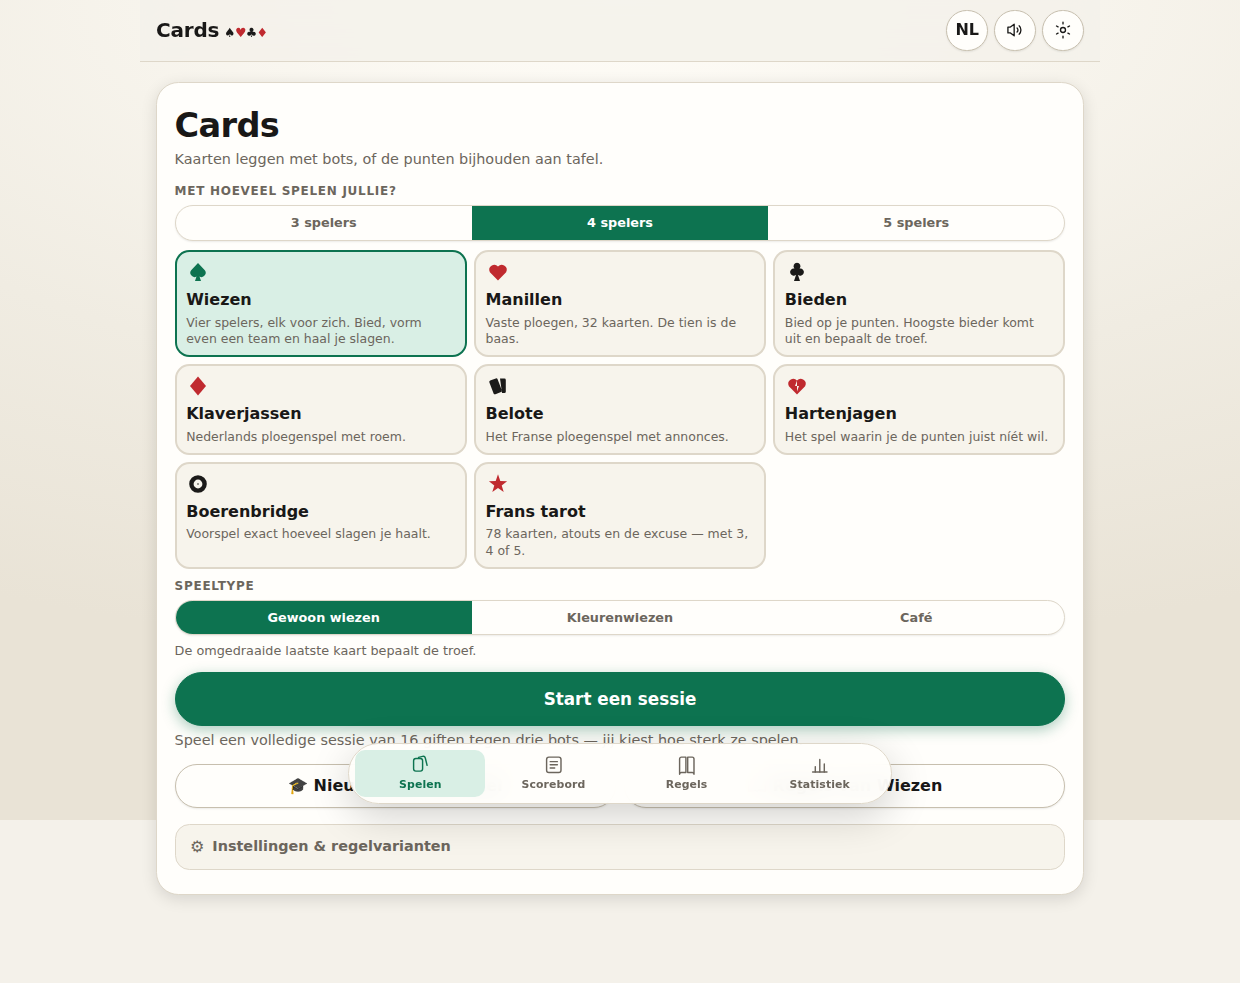
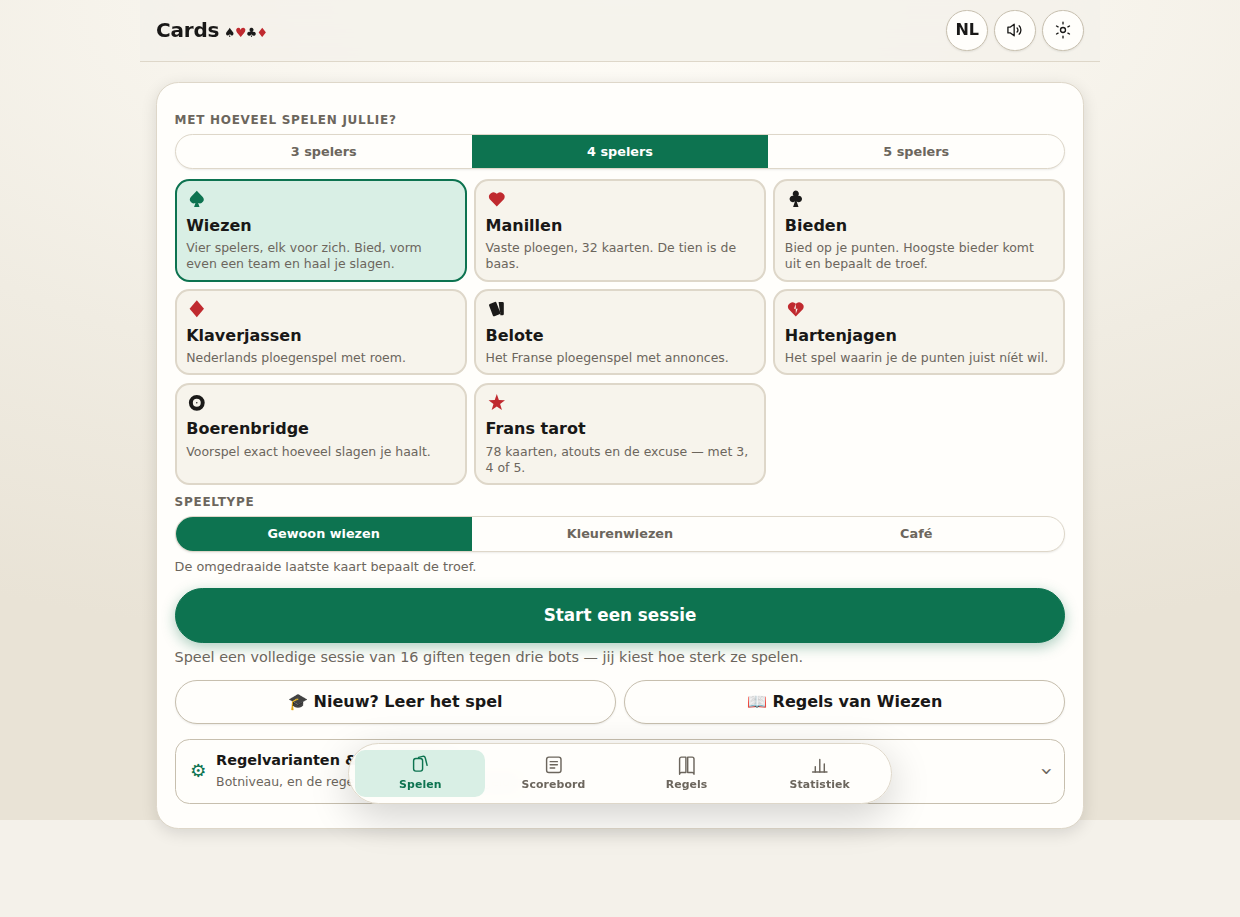
feat(cards): keuzescherm bij het opstarten, compactere spelkiezer
Vier dingen uit één schermafbeelding.

**Ondertitel weg.** "Kaarten leggen met bots, of de punten bijhouden aan tafel"
stond onder een titel die de kop al draagt. Allebei weg; het keuzescherm zegt
het nu op de plek waar het telt.

**Keuzescherm bij het opstarten.** Je landt op twee kaarten: spelen tegen bots,
of scorebord aan tafel. Dat tweede is een ander gebruik van de app en zat tot nu
weggestopt achter een knop onderaan een lijst.

**Naam naast het teken op de speltegels** in plaats van eronder. Halveert de
tegelhoogte en scheelt over vier rijen meer dan honderd pixels.

**Regelvarianten & instellingen** was één grijze regel onderaan die je over het
hoofd zag, en waaruit niet bleek dat de varianten van dít spel erin zitten. Nu
een echte rij met een accentkleurig tandwiel, een chevron en een regel eronder
die zegt wat je er vindt.

Samen met de scorebordinleiding die op gsm verborgen wordt, past nu alles in
één beeld op 390x844:

  landing         844px  past
  start (nieuw)   844px  past   (startknop in beeld)
  start (terug)   844px  past   (startknop in beeld)
  scorebord       844px  past   (was 884)
  statistiek      844px  past
  wizard          844px  past
  regels         1169px  325 over — een lijst hoofdstukken, die hoort te schuiven

Cache naar cards-v11.

Claude-Session: https://claude.ai/code/session_01MgRtQzS8fjuh9rrNQPLfzZ

Changed region(s): [[0.1226, 0.0, 0.8887, 0.916]]

diff --git a/cards/src/main.ts b/cards/src/main.ts
@@ -133,7 +133,10 @@ if (!app) throw new Error('#app ontbreekt');
 
 const RULESET_KEY = 'cards.ruleset';
 let ruleset = getRuleset('vlaams-standaard') as Ruleset;
-let view: 'home' | 'game' | 'stats' | 'scorebord' | 'wizard' | 'guide' = 'home';
+// 'splash' is het scherm waarop je landt: kaarten leggen tegen bots, of enkel
+// de punten bijhouden van een spel aan tafel. Dat zijn twee heel verschillende
+// dingen, en tot nu moest je maar raden dat het tweede ook bestond.
+let view: 'splash' | 'home' | 'game' | 'stats' | 'scorebord' | 'wizard' | 'guide' = 'splash';
 
 // Coach & starterswizard.
 let coachOn = loadCoachEnabled();
@@ -584,10 +587,10 @@ function resumeGame(): void {
  *  duurste plek van een telefoonscherm en het zijn instellingen, geen inhoud.
  *  Ze zitten nu achter één knop. */
 function topbar(): HTMLElement {
-  const header = el('header', 'topbar');
+  const header = el('header', view === 'splash' ? 'topbar bare' : 'topbar');
   const left = el('div', 'topbar-left');
   // Zonder deze knop zit je in een spel of scherm vast: er was geen weg terug.
-  if (view !== 'home') {
+  if (view !== 'home' && view !== 'splash') {
     const terug = button('\u2039', 'btn back', () => goHome());
     terug.setAttribute('aria-label', t('controls.menu'));
     left.append(terug);
@@ -787,7 +790,7 @@ function tabIcon(naam: string): HTMLElement {
 /** De tabbalk hoort niet aan een speeltafel of in de starterswizard: dat zijn
  *  schermen waar je iets afmaakt, niet rondkijkt. */
 function toonTabs(): boolean {
-  if (view === 'wizard') return false;
+  if (view === 'wizard' || view === 'splash') return false;
   return view !== 'game' || !liveSession();
 }
 
@@ -1078,6 +1081,43 @@ function installBanner(): HTMLElement {
   return box;
 }
 
+/** Landingsscherm: twee keuzes, groot en zonder omhaal. */
+function splashScreen(): HTMLElement {
+  const main = el('main', 'hero splash');
+  const merk = el('div', 'splash-brand');
+  merk.innerHTML =
+    'Cards<span class="suits" aria-hidden="true"><span class="suit-black">\u2660</span>' +
+    '<span class="suit-red">\u2665</span><span class="suit-black">\u2663</span>' +
+    '<span class="suit-red">\u2666</span></span>';
+  main.append(merk);
+  main.append(el('p', 'tagline', t('splash.intro')));
+
+  const keuzes = el('div', 'splash-choices');
+  const keuze = (naam: string, titel: string, uitleg: string, bij: () => void): HTMLElement => {
+    const knop = el('button', 'splash-card');
+    knop.type = 'button';
+    knop.append(icoon(naam));
+    const tekst = el('span', 'splash-text');
+    tekst.append(el('span', 'splash-title', titel), el('span', 'splash-desc', uitleg));
+    knop.append(tekst);
+    knop.addEventListener('click', bij);
+    return knop;
+  };
+
+  keuzes.append(
+    keuze('play', t('splash.bots'), t('splash.botsDesc'), () => {
+      view = 'home';
+      render();
+    }),
+    keuze('scorebord', t('splash.board'), t('splash.boardDesc'), () => {
+      view = 'scorebord';
+      render();
+    }),
+  );
+  main.append(keuzes);
+  return main;
+}
+
 function startScreen(): HTMLElement {
   const main = el('main', 'hero');
   // Zodra de browser laat weten dat installeren kan, bieden we het aan in plaats
@@ -1086,11 +1126,6 @@ function startScreen(): HTMLElement {
   // Stond hier hardgecodeerd op "3 spellen" terwijl het er intussen acht zijn.
   // Wie hier voor het eerst komt heeft iets aan de belofte; wie al gespeeld
   // heeft niet meer, en die duwde het alleen maar de startknop uit beeld.
-  const nieuw = loadStats().sessions.length === 0;
-  if (nieuw) {
-    main.append(el('h1', undefined, t('app.title')));
-    main.append(el('p', 'tagline', t('app.tagline')));
-  }
 
   // Eerst met hoeveel je bent, dan pas welk spel: met drie of vijf kan de app
   // enkel tarot delen, en dat hoort de lijst te tonen in plaats van tegels die
@@ -1318,7 +1353,14 @@ function startScreen(): HTMLElement {
   // blijft bereikbaar voor wie het wil.
   const settings = el('details', 'settings');
   const summary = document.createElement('summary');
-  summary.textContent = t('settings.title');
+  // Was één grijze regel onderaan die je makkelijk over het hoofd zag, en waar
+  // niet uit bleek dat de regelvarianten van dít spel erin zitten.
+  const kop = el('span', 'settings-label');
+  kop.append(
+    el('span', 'settings-name', t('settings.title')),
+    el('span', 'settings-desc', t('settings.hint')),
+  );
+  summary.append(kop);
   settings.append(summary);
   const body = el('div', 'settings-body');
 
@@ -2045,7 +2087,7 @@ function endScreen(): HTMLElement {
 function render(): void {
   if (!app) return;
   app.replaceChildren();
-  const wrap = el('div', 'wrap game');
+  const wrap = el('div', view === 'splash' ? 'wrap game no-tabs' : 'wrap game');
   wrap.append(topbar());
   if (prefsPaneel === 'taal') wrap.append(langSheet());
   else if (prefsPaneel === 'thema') wrap.append(prefsSheet());
@@ -2053,7 +2095,9 @@ function render(): void {
   const gift = currentGift();
   const mGift = mSession?.gift ?? null;
   const bGift = bSession?.gift ?? null;
-  if (view === 'guide') {
+  if (view === 'splash') {
+    wrap.append(splashScreen());
+  } else if (view === 'guide') {
     wrap.append(guideScreen());
   } else if (view === 'wizard') {
     wrap.append(wizardScreen());
@@ -2910,7 +2954,7 @@ function sbRoundLabel(meta: scorebord.RoundMeta): string {
 function scorebordSetup(): HTMLElement {
   const main = el('main', 'hero');
   main.append(el('h1', undefined, t('scorebord.title')));
-  main.append(el('p', undefined, t('scorebord.intro')));
+  main.append(el('p', 'hint sb-intro', t('scorebord.intro')));
 
   if (sbNames.length === 0) sbNames = ['', '', '', ''];
 

diff --git a/cards/src/styles.css b/cards/src/styles.css
@@ -98,6 +98,11 @@ body {
   max-width: 60rem;
 }
 
+/* Schermen zonder tabbalk hoeven er onderaan geen plaats voor vrij te houden. */
+.wrap.no-tabs {
+  padding-bottom: calc(1rem + env(safe-area-inset-bottom, 0px));
+}
+
 /* ---------- topbar ---------- */
 
 header.topbar {
@@ -357,6 +362,12 @@ main.hero h1 {
 }
 
 @media (max-width: 39.99rem) {
+  /* De inleidende zin van het scorebord duwde het opzetscherm net buiten beeld;
+     de titel en de tab zeggen al waar je bent. */
+  .sb-intro {
+    display: none;
+  }
+
   main.hero > h1 {
     font-size: 1.3rem;
     margin: 0.1rem 0 0.3rem;
@@ -422,12 +433,12 @@ main.hero h1 {
 
 .game-tile {
   display: flex;
-  flex-direction: column;
-  align-items: flex-start;
-  gap: 0.15rem;
+  flex-direction: row;
+  align-items: center;
+  gap: 0.55rem;
   width: 100%;
-  min-height: 3.9rem;
-  padding: 0.5rem 0.6rem;
+  min-height: 2.9rem;
+  padding: 0.45rem 0.6rem;
   border: 2px solid var(--border);
   border-radius: var(--radius);
   background: var(--surface-2);
@@ -448,6 +459,11 @@ main.hero h1 {
     gap: 0.25rem;
     min-height: 5rem;
   }
+}
+
+/* De naam mag niet over het teken heen breken op een smal scherm. */
+.game-tile .tile-text {
+  min-width: 0;
 }
 
 .game-tile:active {
@@ -476,8 +492,9 @@ main.hero h1 {
    tegel neemt het zwarte teken de accentkleur over zodat de keuze meteen leest. */
 .game-mark {
   display: block;
-  width: 1.5rem;
-  height: 1.5rem;
+  flex: 0 0 auto;
+  width: 1.35rem;
+  height: 1.35rem;
 }
 
 .game-mark svg {
@@ -517,6 +534,92 @@ main.hero h1 {
   .game-tile .tile-desc {
     display: none;
   }
+}
+
+/* ---------- landingsscherm ---------- */
+
+main.hero.splash {
+  display: flex;
+  flex-direction: column;
+  justify-content: center;
+  gap: 0.4rem;
+  /* De volle hoogte onder de kop, zodat de twee keuzes in het midden staan en
+     niet bovenaan blijven hangen met een leeg scherm eronder. */
+  min-height: calc(100dvh - 9rem);
+}
+
+.topbar.bare .brand {
+  display: none;
+}
+
+.splash-brand {
+  display: flex;
+  align-items: baseline;
+  gap: 0.4rem;
+  font-family: var(--font-display);
+  font-size: 2rem;
+  font-weight: 800;
+  letter-spacing: -0.02em;
+}
+
+.splash-brand .suits {
+  font-size: 1.1rem;
+  letter-spacing: -0.05em;
+}
+
+.splash-choices {
+  display: flex;
+  flex-direction: column;
+  gap: 0.7rem;
+  margin-top: 0.8rem;
+}
+
+.splash-card {
+  display: flex;
+  align-items: center;
+  gap: 0.8rem;
+  width: 100%;
+  padding: 1rem 1rem;
+  border: 2px solid var(--border);
+  border-radius: var(--radius-lg);
+  background: var(--surface);
+  color: var(--text);
+  font: inherit;
+  text-align: left;
+  cursor: pointer;
+  box-shadow: var(--shadow);
+  transition:
+    border-color 0.15s ease,
+    transform 0.12s ease;
+}
+
+.splash-card:active {
+  transform: translateY(1px);
+}
+
+.splash-card .ui-icon {
+  flex: 0 0 auto;
+  width: 1.9rem;
+  height: 1.9rem;
+  color: var(--accent);
+}
+
+.splash-text {
+  display: flex;
+  flex-direction: column;
+  gap: 0.15rem;
+  min-width: 0;
+}
+
+.splash-title {
+  font-weight: 700;
+  font-size: 1.05rem;
+}
+
+.splash-desc {
+  font-size: 0.82rem;
+  color: var(--text-muted);
+  line-height: 1.35;
 }
 
 /* ---------- tabbalk ---------- */
@@ -681,10 +784,10 @@ main.hero h1 {
 
 /* Inklapbare instellingen zodat het startscherm rustig blijft */
 details.settings {
-  margin-top: 1rem;
-  border: 1px solid var(--border);
+  margin-top: 0.9rem;
+  border: 1px solid var(--border-strong);
   border-radius: var(--radius);
-  background: var(--surface-2);
+  background: var(--surface);
   overflow: hidden;
 }
 
@@ -692,13 +795,44 @@ details.settings > summary {
   min-height: var(--tap);
   display: flex;
   align-items: center;
-  gap: 0.5rem;
-  padding: 0.6rem 0.9rem;
+  gap: 0.6rem;
+  padding: 0.65rem 0.9rem;
   font-size: 0.9rem;
-  font-weight: 600;
-  color: var(--text-muted);
+  color: var(--text);
   cursor: pointer;
   list-style: none;
+}
+
+/* Naam plus één regel wat erin zit: zonder die tweede regel bleek nergens uit
+   dat de regelvarianten van dit spel hier zitten. */
+.settings-label {
+  display: flex;
+  flex-direction: column;
+  gap: 0.1rem;
+  min-width: 0;
+}
+
+.settings-name {
+  font-weight: 700;
+}
+
+.settings-desc {
+  font-size: 0.78rem;
+  color: var(--text-muted);
+}
+
+/* Chevron rechts, zodat het als een open te klappen rij leest. */
+details.settings > summary::after {
+  content: '›';
+  margin-left: auto;
+  font-size: 1.3rem;
+  line-height: 1;
+  color: var(--text-muted);
+  transform: rotate(90deg);
+}
+
+details.settings[open] > summary::after {
+  transform: rotate(-90deg);
 }
 
 details.settings > summary::-webkit-details-marker {
@@ -707,7 +841,8 @@ details.settings > summary::-webkit-details-marker {
 
 details.settings > summary::before {
   content: '⚙';
-  font-size: 1rem;
+  font-size: 1.15rem;
+  color: var(--accent);
 }
 
 details.settings[open] > summary {

diff --git a/cards/public/sw.js b/cards/public/sw.js
@@ -4,7 +4,7 @@
 // Bij elke release opgehoogd: oude clients gooien hun cache weg zodra de nieuwe
 // service worker actief wordt (zie de 'activate'-handler hieronder). Zonder dat
 // bleef een geïnstalleerde app op een oude bundel hangen.
-const CACHE = 'cards-v10';
+const CACHE = 'cards-v11';
 
 self.addEventListener('install', () => {
   self.skipWaiting();

diff --git a/cards/README.md b/cards/README.md
@@ -53,6 +53,9 @@ reclame, werkt offline en is installeerbaar op je gsm.
   scorefuncties als het spel zelf. Welke spellen je kan kiezen hangt af van het aantal
   deelnemers, en dat aantal kan je ook op een lopend bord nog wijzigen — schuift er
   iemand aan of stopt iemand ermee, dan past de lijst zich meteen aan.
+- **Je landt op een keuzescherm**: kaarten leggen tegen bots, of enkel de punten
+  bijhouden van een spel aan tafel. Dat zijn twee heel verschillende dingen, en
+  het tweede bestond voor veel mensen gewoon niet omdat het onder een knop zat.
 - **App-schil in plaats van een lange pagina.** Onderaan een tabbalk (Spelen ·
   Scorebord · Regels · Statistiek) die overal met de duim bereikbaar is. In de kop
   staat de **taalkeuze als eigen knop met de actieve code erop** (NL / EN / FR) —
